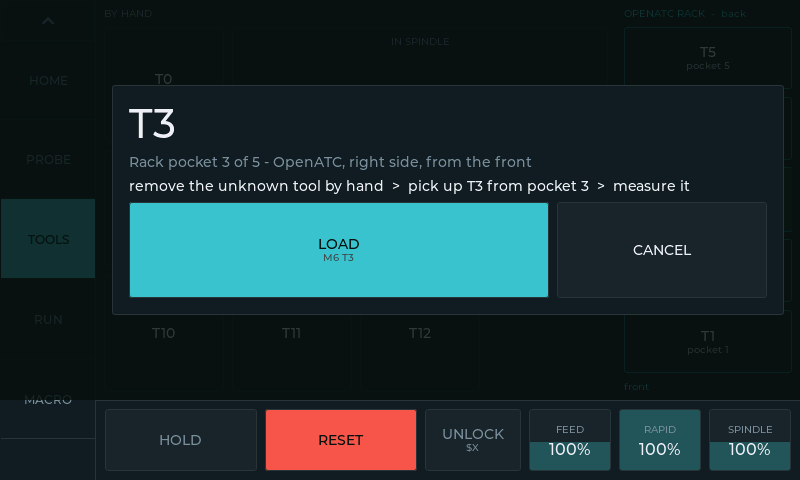
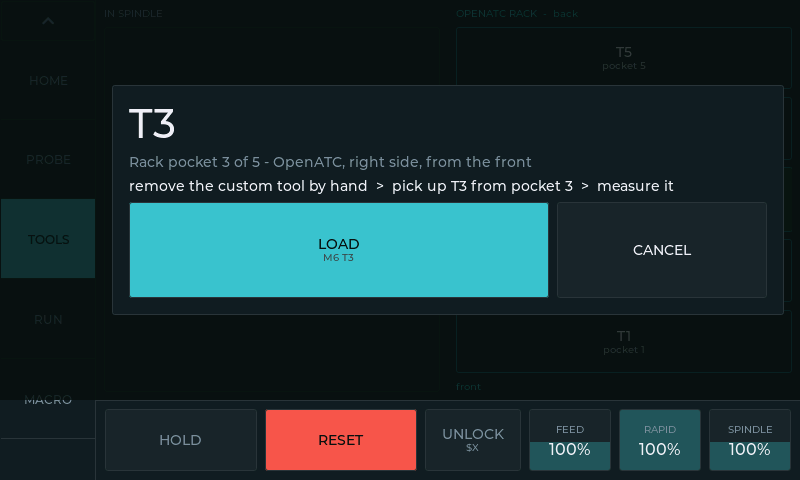
TOOLS: five buttons, one per cartridge; everything else is the custom tool
There are five OpenATC cartridges, so T1-T5 are the only tool buttons, in the
rack column, beside a large IN SPINDLE readout. Anything else in the spindle --
T0, a number that is not a cartridge, or nothing FluidNC knows of -- is the
custom tool: it reads CUSTOM, its plan and removal card say so, and no number
outside the rack changes the behaviour.

diff --git a/src/ui/page_tools.cpp b/src/ui/page_tools.cpp
@@ -23,20 +23,16 @@
 //            no measuring. Fit the tool, zero Z, then CURRENT.
 //   UNLOAD   M6 T0: goes to the change position and clears the TLO.
 
-// The machine's tools: T0 is whatever is fitted by hand, T1..RACK_POCKETS live
-// in the OpenATC rack on the right-hand (high-X) side, stacked front to back
-// (pocket n holds Tn, pocket 1 nearest the operator), and the rest up to
-// TOOL_MAX are numbered tools changed by hand. Both counts are the hardware's,
-// not the layout's: the page below is sized from them.
+// One button per OpenATC cartridge: pocket n holds Tn, stacked on the right-hand
+// (high-X) side with pocket 1 nearest the operator. The count is the hardware's,
+// not the layout's. Anything else in the spindle -- T0, a number that is not a
+// cartridge, or nothing FluidNC knows of -- is one thing: the custom tool, fitted
+// and removed by hand.
 static const int RACK_POCKETS = 5;
-static const int TOOL_MAX     = 12;
-static const int OFF_COLS     = 4;                  // left block: T0 + readout, then off-rack
-static const int OFF_RACK     = TOOL_MAX - RACK_POCKETS;
-static const int OFF_ROWS     = 1 + (OFF_RACK + OFF_COLS - 1) / OFF_COLS;
 
 static bool in_rack(int t) { return t >= 1 && t <= RACK_POCKETS; }
 
-static lv_obj_t* s_btn[TOOL_MAX + 1];      // indexed by tool number, T0 included
+static lv_obj_t* s_btn[RACK_POCKETS + 1];  // indexed by tool number; [0] unused
 static lv_obj_t* s_now;            // "IN SPINDLE T4"
 static lv_obj_t* s_rack_lbl;
 static lv_obj_t* s_pop;
@@ -53,12 +49,12 @@ enum { A_LOAD, A_CURRENT, A_UNLOAD };
 
 static bool by_macro() { return caps_atc() == CAPS_ATC_MACRO; }
 
-// What is in the spindle. With the macro FluidNC knows, and -1 means it does
-// not. atc_manual never updates FluidNC's current tool, so there the selected
-// tool from $G is the best there is, and 0 means nothing declared yet.
+// What is in the spindle: a cartridge, or 0 for the custom tool. With the macro
+// FluidNC knows; atc_manual never updates FluidNC's current tool, so there the
+// selected tool from $G is the best there is.
 static int in_spindle() {
     const int t = by_macro() ? tc_current() : (int)mySelectedTool;
-    return (t < 0 || t > TOOL_MAX) ? -1 : t;
+    return in_rack(t) ? t : 0;
 }
 
 static void refresh_tool() {
@@ -69,7 +65,7 @@ static void refresh_tool() {
 static void act_cb(lv_event_t* e) {
     switch ((int)(intptr_t)lv_event_get_user_data(e)) {
         case A_LOAD:    send_linef("M6 T%d", s_tool);                                   break;
-        case A_CURRENT: send_line("M61 Q0"); if (s_tool) send_linef("M61 Q%d", s_tool); break;
+        case A_CURRENT: send_line("M61 Q0"); send_linef("M61 Q%d", s_tool);             break;
         case A_UNLOAD:  send_line("M6 T0");                                             break;
     }
     refresh_tool();
@@ -78,25 +74,17 @@ static void act_cb(lv_event_t* e) {
 
 // The same decisions openatc_m6.nc makes, in words, so LOAD is never a surprise.
 static void plan_macro(char* out, size_t n, int from, int to) {
-    char a[48], b[56];
-    if (in_rack(from))  snprintf(a, sizeof(a), "T%d back to pocket %d", from, from);
-    else if (in_rack(to)) {
-        if (from < 0)   snprintf(a, sizeof(a), "remove the unknown tool by hand");
-        else            snprintf(a, sizeof(a), "remove T%d by hand", from);
-    } else              a[0] = 0;              // hand to hand: one stop, below
-    if (in_rack(to))    snprintf(b, sizeof(b), "pick up T%d from pocket %d", to, to);
-    else if (in_rack(from)) snprintf(b, sizeof(b), "fit T%d by hand", to);
-    else if (from < 0)  snprintf(b, sizeof(b), "swap the unknown tool for T%d by hand", to);
-    else                snprintf(b, sizeof(b), "swap T%d for T%d by hand", from, to);
-    snprintf(out, n, "%s%s%s  >  measure it", a, a[0] ? "  >  " : "", b);
+    char a[48];
+    if (in_rack(from)) snprintf(a, sizeof(a), "T%d back to pocket %d", from, from);
+    else               snprintf(a, sizeof(a), "remove the custom tool by hand");
+    snprintf(out, n, "%s  >  pick up T%d from pocket %d  >  measure it", a, to, to);
 }
 
 // And what atc_manual will do. The T0 case is the one that catches people out.
 static void plan_manual(char* out, size_t n, int from, int to) {
-    if (to == 0)        snprintf(out, n, "Change position, length offset cleared.");
-    else if (from <= 0) snprintf(out, n, "LOAD only goes to the change position: it does not stop or measure. "
+    if (from <= 0) snprintf(out, n, "LOAD only goes to the change position: it does not stop or measure. "
                                          "Fit T%d, zero Z, then tap CURRENT. If T%d is already in, just tap CURRENT.", to, to);
-    else                snprintf(out, n, "Measure T%d if needed  >  change position  >  swap to T%d by hand  >  measure it",
+    else           snprintf(out, n, "Measure T%d if needed  >  change position  >  swap to T%d by hand  >  measure it",
                                  from, to);
 }
 
@@ -116,9 +104,9 @@ static void gate_actions() {
 
     snprintf(why_cur, sizeof(why_cur), "T%d is loaded: load or unload", in);
     snprintf(why_unl, sizeof(why_unl), "T%d is loaded, not T%d", in, s_tool);
-    w_gate(s_act[A_CURRENT], idle && (in <= 0 || in == s_tool), !idle ? busy : why_cur);
-    w_gate(s_act[A_UNLOAD],  !move && in > 0 && in == s_tool,
-           move ? move : in <= 0 ? "spindle is empty" : why_unl);
+    w_gate(s_act[A_CURRENT], idle && (in == 0 || in == s_tool), !idle ? busy : why_cur);
+    w_gate(s_act[A_UNLOAD],  !move && in != 0 && in == s_tool,
+           move ? move : in == 0 ? "custom tool: remove by hand" : why_unl);
 }
 
 static void tool_cb(lv_event_t* e) {
@@ -145,16 +133,13 @@ static void tool_cb(lv_event_t* e) {
     snprintf(b, sizeof(b), "T%d", s_tool);
     w_label(card, b, &lv_font_montserrat_40, C_TEXT);
     char where[64];
-    if (s_tool == 0)          snprintf(where, sizeof(where), "Manual tool - fitted by hand, not tracked");
-    else if (in_rack(s_tool) && by_macro())
-        snprintf(where, sizeof(where), "Rack pocket %d of %d - OpenATC, right side, from the front", s_tool, RACK_POCKETS);
-    else if (in_rack(s_tool)) snprintf(where, sizeof(where), "Pocket %d - rack not in use yet, changed by hand", s_tool);
-    else                      snprintf(where, sizeof(where), "Not in the rack - changed by hand");
+    if (by_macro()) snprintf(where, sizeof(where), "Rack pocket %d of %d - OpenATC, right side, from the front", s_tool, RACK_POCKETS);
+    else            snprintf(where, sizeof(where), "Pocket %d - rack not in use yet, changed by hand", s_tool);
     w_label(card, where, &lv_font_montserrat_14, C_DIM);
     if (in_spindle() != s_tool) {
         char p[160];
         if (by_macro()) plan_macro(p, sizeof(p), in_spindle(), s_tool);
-        else            plan_manual(p, sizeof(p), in_spindle(), s_tool);
+        else            plan_manual(p, sizeof(p), (int)mySelectedTool, s_tool);   // atc_manual's own idea of "from"
         lv_obj_t* l = w_label(card, p, &lv_font_montserrat_14, C_TEXT);
         lv_obj_set_width(l, LV_PCT(100));
         lv_label_set_long_mode(l, LV_LABEL_LONG_WRAP);
@@ -204,45 +189,20 @@ static lv_obj_t* column(lv_obj_t* p) {
 }
 
 // Laid out the way the machine looks from the operator's side: the rack is a
-// column on the right with pocket 1 at the bottom (front), the hand tools on
-// the left.
+// column on the right with pocket 1 at the bottom (front).
 void page_tools_build(lv_obj_t* p) {
     lv_obj_set_flex_flow(p, LV_FLEX_FLOW_ROW);
     lv_obj_set_style_pad_column(p, U * 2, 0);
 
-    // --- left: T0 and the readout, then the off-rack tools ---
     lv_obj_t* left = column(p);
-    lv_obj_set_flex_grow(left, 3);
-    w_label(left, "BY HAND", &lv_font_montserrat_10, C_DIM);
-    lv_obj_t* grid = lv_obj_create(left);
-    w_flatten(grid);
-    lv_obj_set_width(grid, LV_PCT(100));
-    lv_obj_set_flex_grow(grid, 1);
-    static lv_coord_t cols[OFF_COLS + 1], rows[OFF_ROWS + 1];
-    for (int i = 0; i < OFF_COLS; i++) cols[i] = LV_GRID_FR(1);
-    for (int i = 0; i < OFF_ROWS; i++) rows[i] = LV_GRID_FR(1);
-    cols[OFF_COLS] = rows[OFF_ROWS] = LV_GRID_TEMPLATE_LAST;
-    lv_obj_set_grid_dsc_array(grid, cols, rows);
-    lv_obj_set_layout(grid, LV_LAYOUT_GRID);
-    lv_obj_set_style_pad_column(grid, U, 0);
-    lv_obj_set_style_pad_row(grid, U, 0);
+    lv_obj_set_flex_grow(left, 1);
+    w_label(left, "IN SPINDLE", &lv_font_montserrat_10, C_DIM);
+    lv_obj_t* now = w_panel(left, C_BG);
+    lv_obj_set_width(now, LV_PCT(100));
+    lv_obj_set_flex_grow(now, 1);
+    s_now = w_label(now, "--", &lv_font_montserrat_40, C_ACCENT);
+    lv_obj_center(s_now);
 
-    s_btn[0] = tool_button(grid, 0, "hand");
-    lv_obj_set_grid_cell(s_btn[0], LV_GRID_ALIGN_STRETCH, 0, 1, LV_GRID_ALIGN_STRETCH, 0, 1);
-    lv_obj_t* now = w_panel(grid, C_BG);
-    lv_obj_set_grid_cell(now, LV_GRID_ALIGN_STRETCH, 1, OFF_COLS - 1, LV_GRID_ALIGN_STRETCH, 0, 1);
-    lv_obj_t* k = w_label(now, "IN SPINDLE", &lv_font_montserrat_10, C_DIM);
-    lv_obj_align(k, LV_ALIGN_TOP_MID, 0, U);
-    s_now = w_label(now, "--", &lv_font_montserrat_28, C_ACCENT);
-    lv_obj_align(s_now, LV_ALIGN_CENTER, 0, U);
-    for (int n = 0; n < OFF_RACK; n++) {
-        const int t = RACK_POCKETS + 1 + n;
-        s_btn[t] = tool_button(grid, t, nullptr);
-        lv_obj_set_grid_cell(s_btn[t], LV_GRID_ALIGN_STRETCH, n % OFF_COLS, 1,
-                             LV_GRID_ALIGN_STRETCH, 1 + n / OFF_COLS, 1);
-    }
-
-    // --- right: the rack, back at the top, front at the bottom ---
     lv_obj_t* rack = column(p);
     lv_obj_set_flex_grow(rack, 1);
     s_rack_lbl = w_label(rack, "OPENATC RACK  -  back", &lv_font_montserrat_10, C_ACCENT);
@@ -287,10 +247,10 @@ void page_tools_tick() {
     shown = now;
     gate_actions();
     char b[8];
-    if (now < 0) snprintf(b, sizeof(b), "?");          // FluidNC does not know
-    else         snprintf(b, sizeof(b), "T%d", now);   // T0 = the hand tool
+    if (now == 0) snprintf(b, sizeof(b), "CUSTOM");
+    else          snprintf(b, sizeof(b), "T%d", now);
     lv_label_set_text(s_now, b);
-    for (int t = 0; t <= TOOL_MAX; t++) {
+    for (int t = 1; t <= RACK_POCKETS; t++) {
         const bool on = t == now;
         lv_obj_set_style_bg_color(s_btn[t], on ? C_ACCENT : C_SURFACE, 0);
         lv_obj_set_style_text_color(lv_obj_get_child(lv_obj_get_child(s_btn[t], 0), 0), on ? C_BG : C_TEXT, 0);

diff --git a/src/sim/sim_transport.cpp b/src/sim/sim_transport.cpp
@@ -200,11 +200,8 @@ void sim_atc_change(int to) {
     s_state = "Run";
     if (sim_rack(to)) {
         if (!sim_rack(s_cur_tool)) {
-            char b[96];
-            if (s_cur_tool < 0) snprintf(b, sizeof(b), "[MSG:INFO: PRINT,Remove the tool in the spindle then resume to continue]\n");
-            else                snprintf(b, sizeof(b), "[MSG:INFO: PRINT,Remove tool T%d then resume to continue]\n", s_cur_tool);
-            s_tc_msg_later[0] = 0;
-            snprintf(s_tc_msg_later, sizeof(s_tc_msg_later), "%s", b);
+            snprintf(s_tc_msg_later, sizeof(s_tc_msg_later),
+                     "[MSG:INFO: PRINT,Remove the tool in the spindle then resume to continue]\n");
             s_tc_phase = 1;                  // travel, then the removal stop
         } else {
             s_tc_phase = 3;                  // drop + pick up + measure, no stop

diff --git a/src/ui/tool_popup.cpp b/src/ui/tool_popup.cpp
@@ -47,7 +47,7 @@ static void open_popup() {
     lv_obj_set_flex_flow(card, LV_FLEX_FLOW_COLUMN);
 
     char b[16];
-    if (s_shown_tool < 0) snprintf(b, sizeof(b), "?");
+    if (s_shown_tool < 0) snprintf(b, sizeof(b), "CUSTOM");
     else                  snprintf(b, sizeof(b), "T%d", s_shown_tool);
     text(card, s_shown_remove ? "REMOVE TOOL" : "TOOL CHANGE", &lv_font_montserrat_14, C_WARN);
     text(card, b, &lv_font_montserrat_40, C_TEXT);

diff --git a/README.md b/README.md
@@ -20,8 +20,9 @@ config says it has.
 - **Homing walk-through** — when position can't be trusted (fresh link,
   controller restart, an alarm that loses position) a card walks you through a
   checklist, HOME ALL, and an optional tool-length measurement.
-- **Tool changes** — a TOOLS page laid out like the machine: T0 by hand, T1–T5 in
-  the OpenATC rack, T6+ off-rack. What a tool's card offers follows the
+- **Tool changes** — a TOOLS page laid out like the machine: five buttons, one per
+  OpenATC cartridge, in a column with T1 at the front. Anything else in the spindle
+  is the custom tool, fitted and removed by hand. What a tool's card offers follows the
   controller's config: with an M6 macro, tap a tool and LOAD or CANCEL, and the
   macro does the rest; with `atc_manual`, LOAD / CURRENT / UNLOAD and honest text
   about what each will do. Either way the card shows the plan first, every
@@ -43,7 +44,7 @@ All of these are the real UI, rendered by the desktop simulator below.
 |---|---|---|
 | ![Homing walk-through](docs/screenshots/homing-walkthrough.png) Homing walk-through | ![Alarm](docs/screenshots/alarm.png) After a hard-limit alarm | ![Home](docs/screenshots/home.png) Home |
 | ![Tools load card](docs/screenshots/tools-load-card.png) Tap a tool: the plan, LOAD / CANCEL | ![Tool change card](docs/screenshots/tool-change-card.png) A job paused for a tool | ![Tools](docs/screenshots/tools.png) Tools |
-| ![Tools with atc_manual](docs/screenshots/tools-manual-card.png) The same card under `atc_manual` | | |
+| ![Tools with atc_manual](docs/screenshots/tools-manual-card.png) The same card under `atc_manual` | ![Remove tool](docs/screenshots/tools-remove-card.png) A custom tool coming out before a pickup | |
 | ![Feed override](docs/screenshots/feed-override.png) Feed override | ![Rapid override](docs/screenshots/rapid-override.png) Rapid override | ![Probe](docs/screenshots/probe.png) Probe |
 | ![Run](docs/screenshots/run.png) Run (controller SD card) | ![Macro](docs/screenshots/macro.png) Macros | ![Offsets](docs/screenshots/offsets.png) Work offsets |
 | ![Motion](docs/screenshots/motion.png) Motion settings | ![Calibrate](docs/screenshots/calibrate.png) Steps/mm calibration | ![Diag](docs/screenshots/diag.png) Diagnostics |
